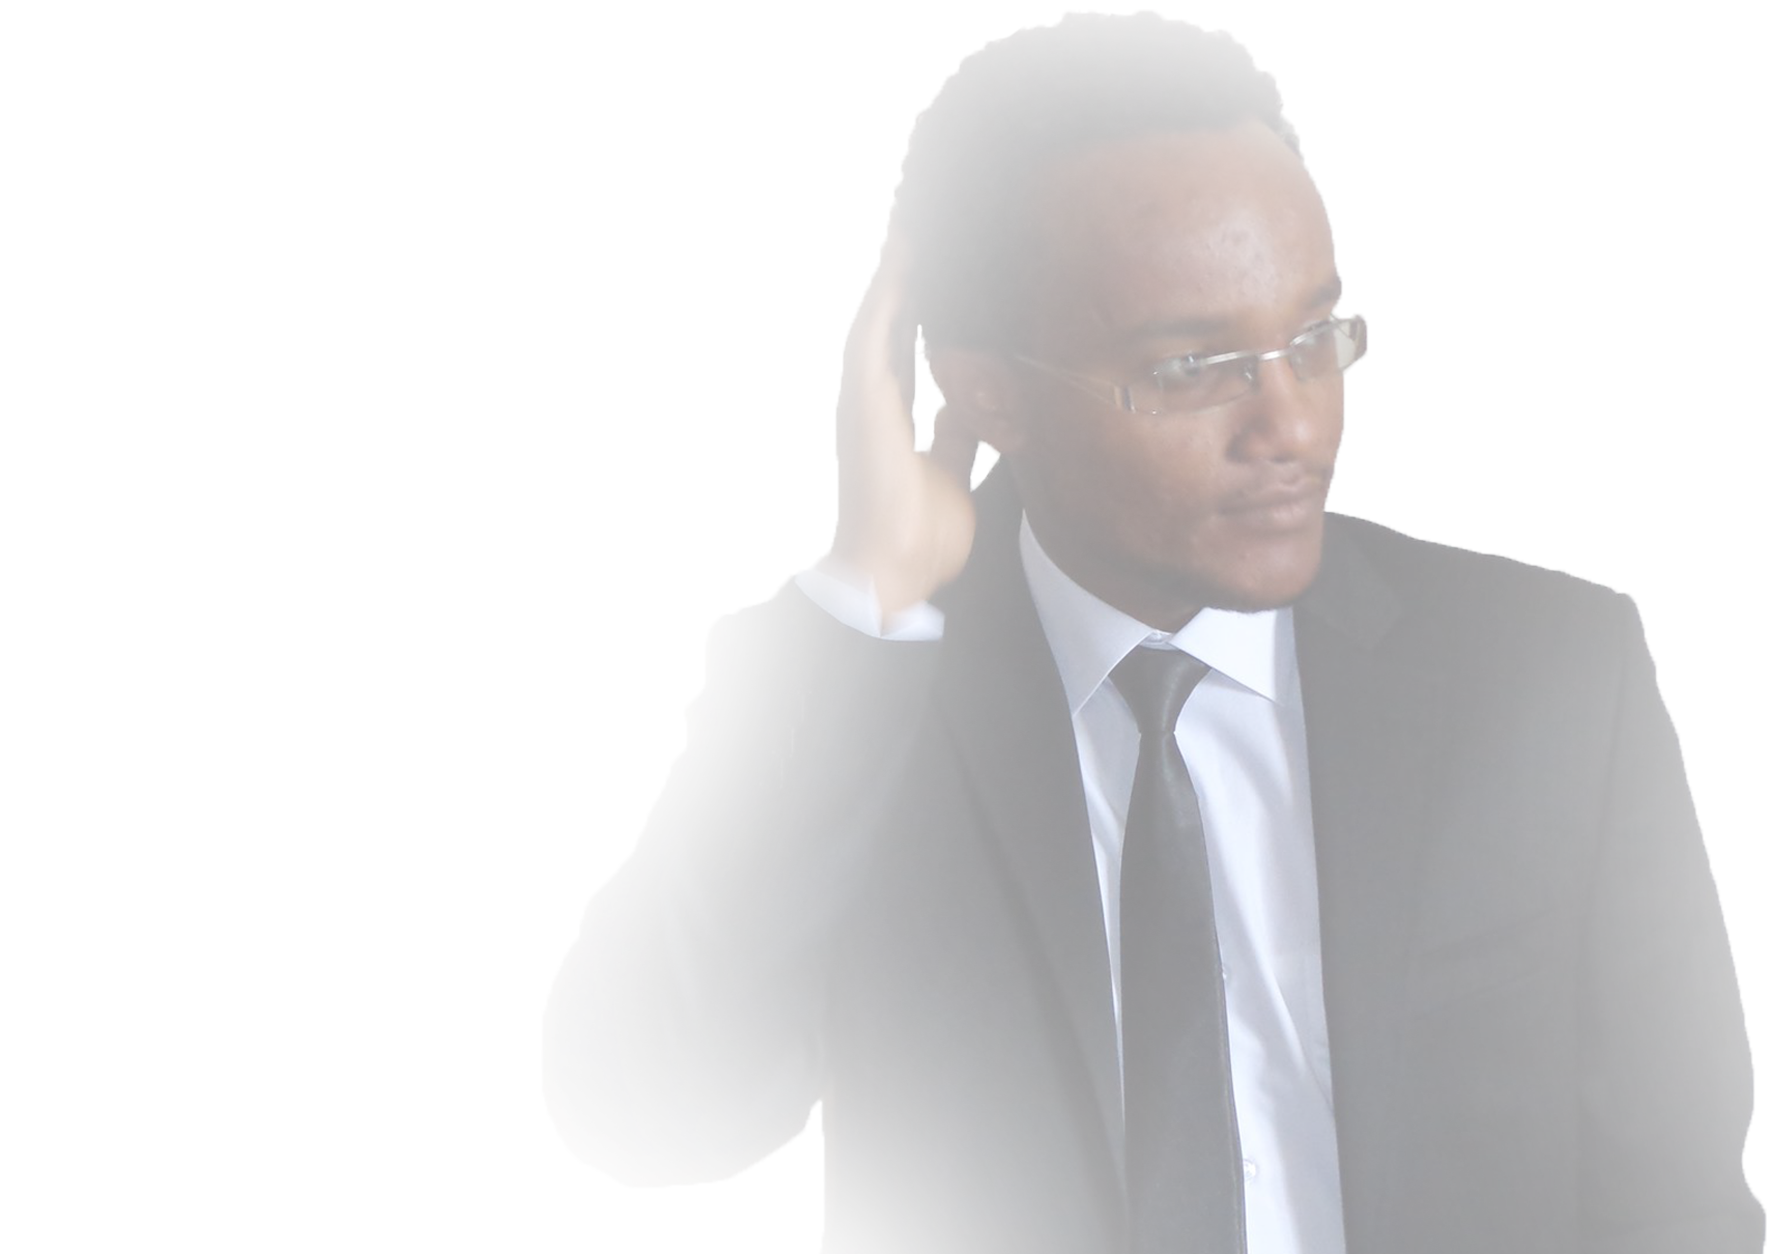
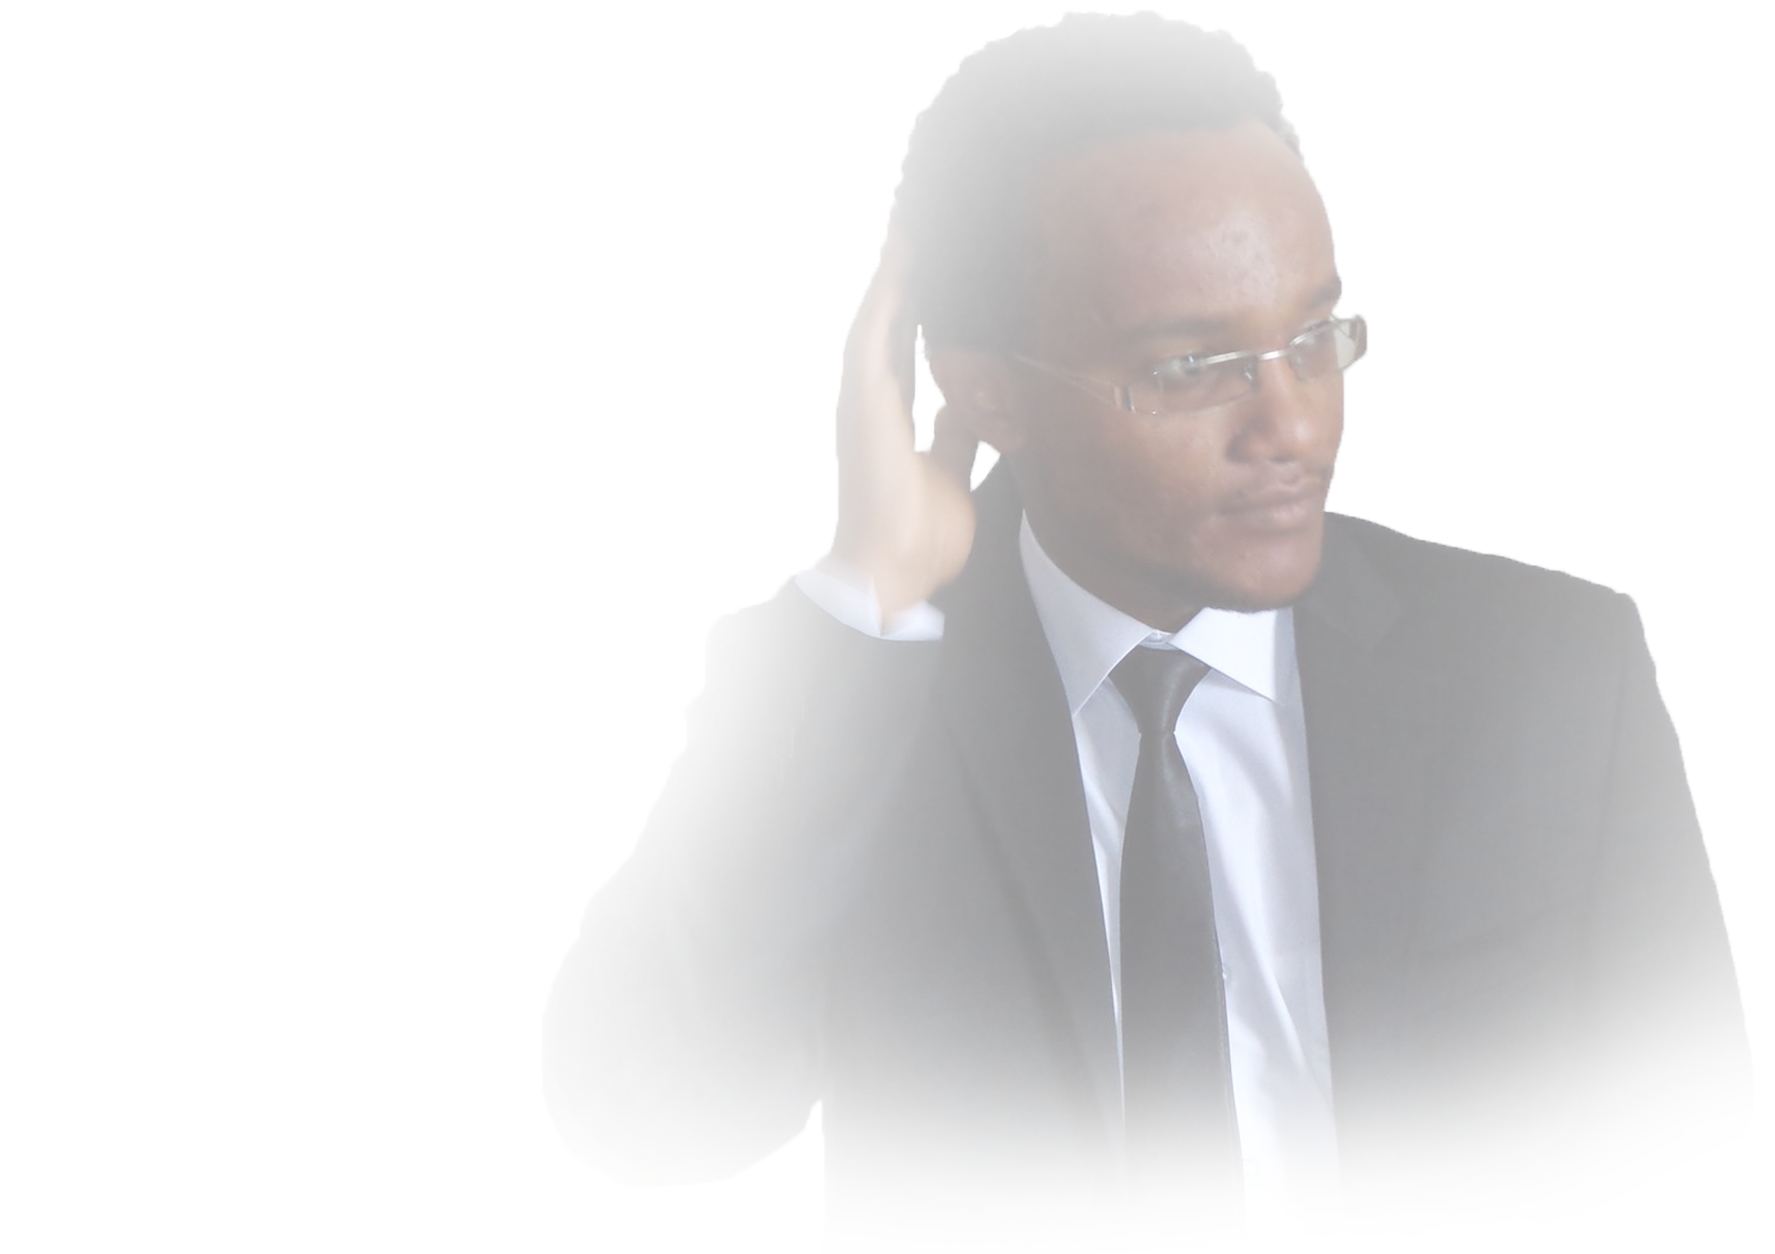
minor changes

Changed region(s): [[0.4958, 0.7464, 1.0, 1.0]]

diff --git a/client/src/component/home.js b/client/src/component/home.js
@@ -29,8 +29,7 @@ class Home extends Component {
 		const meBg = {
 			backgroundImage: `url(${Feature_image})`,
 			backgroundRepeat: 'no-repeat',
-			backgroundPosition: 'right',
-			backgroundBlendMode: 'multiply',
+			backgroundPosition: 'right center',
 			backgroundSize: 'contain',
 			stroke: '#FFD000',
 			marginBottom: '20px'
@@ -42,8 +41,8 @@ class Home extends Component {
 					<Row>
 						<Col lg='7'>
 							<h1 style={h1Style}>
-								Front-End Developer & <br />
-								Brand Consultant
+								Front-End Developer <br /> & Brand Consultant
+								
 							</h1>
 							<br />
 							<br />

diff --git a/client/src/component/footer.js b/client/src/component/footer.js
@@ -10,8 +10,11 @@ import Dropdown from 'react-bootstrap/Dropdown';
 
 class Footer extends Component {
 	render() {
+		const padding = {
+			padding: '22px'
+		}
 		return (
-			<footer>
+			<footer style={padding}>
 				<Row>
 					<Col>
 						<DropdownButton

diff --git a/client/src/layout/main.js b/client/src/layout/main.js
@@ -12,6 +12,9 @@ import Contact from '../component/contact';
 
 export default class Main extends Component {
 	render() {
+		const mainTitle ={
+			color: '#ffd000'
+		}
 		return (
 			<React.Fragment>
 				<div className='container-fluid custom-body'>

diff --git a/client/src/style/index.css b/client/src/style/index.css
@@ -20,3 +20,12 @@ h5,
 h6 {
 	color: #ffd000;
 }
+
+.navbar-light .navbar-nav .nav-link:hover, .navbar-light .navbar-nav .nav-link:focus {
+	color: #ffd000;
+}
+
+a:hover {
+	color: #ffd000;
+	text-decoration: none
+}
